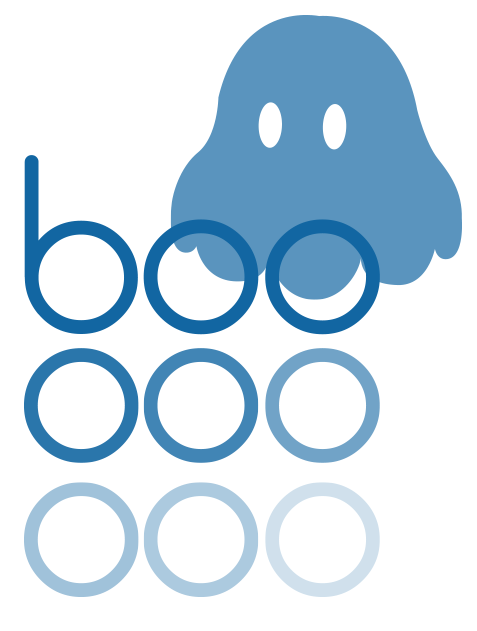
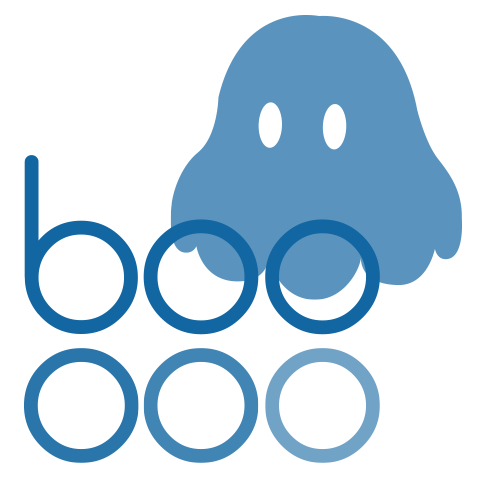
Removed arrow from landing page and instead made Boo image smaller.

diff --git a/public/login/app.js b/public/login/app.js
@@ -70,27 +70,4 @@
             });
         }
     });
-
-    app.directive('scrollIcon', function ($document, $window) {
-        return {
-            restrict:'E',
-            templateUrl: '/login/scroll-icon.html',
-            controller: function ($scope) {
-                $scope.visible = true;
-            },
-            scope: {},
-            link: function (scope, element, attrs) {
-                $document.bind('scroll', function (event) {
-                    if ($window.scrollY > 100) {
-                        scope.visible = false;
-                        scope.$apply(element);
-                    }
-                    if ($window.scrollY <= 100) {
-                        scope.visible = true;
-                        scope.$apply(element);
-                    }
-                });
-            }
-        }
-    });
 })();

diff --git a/public/login/login.html b/public/login/login.html
@@ -128,7 +128,5 @@
       </div>
     </div>
   </div>
-
-  <scroll-icon></scroll-icon>
 </body>
 </html>
